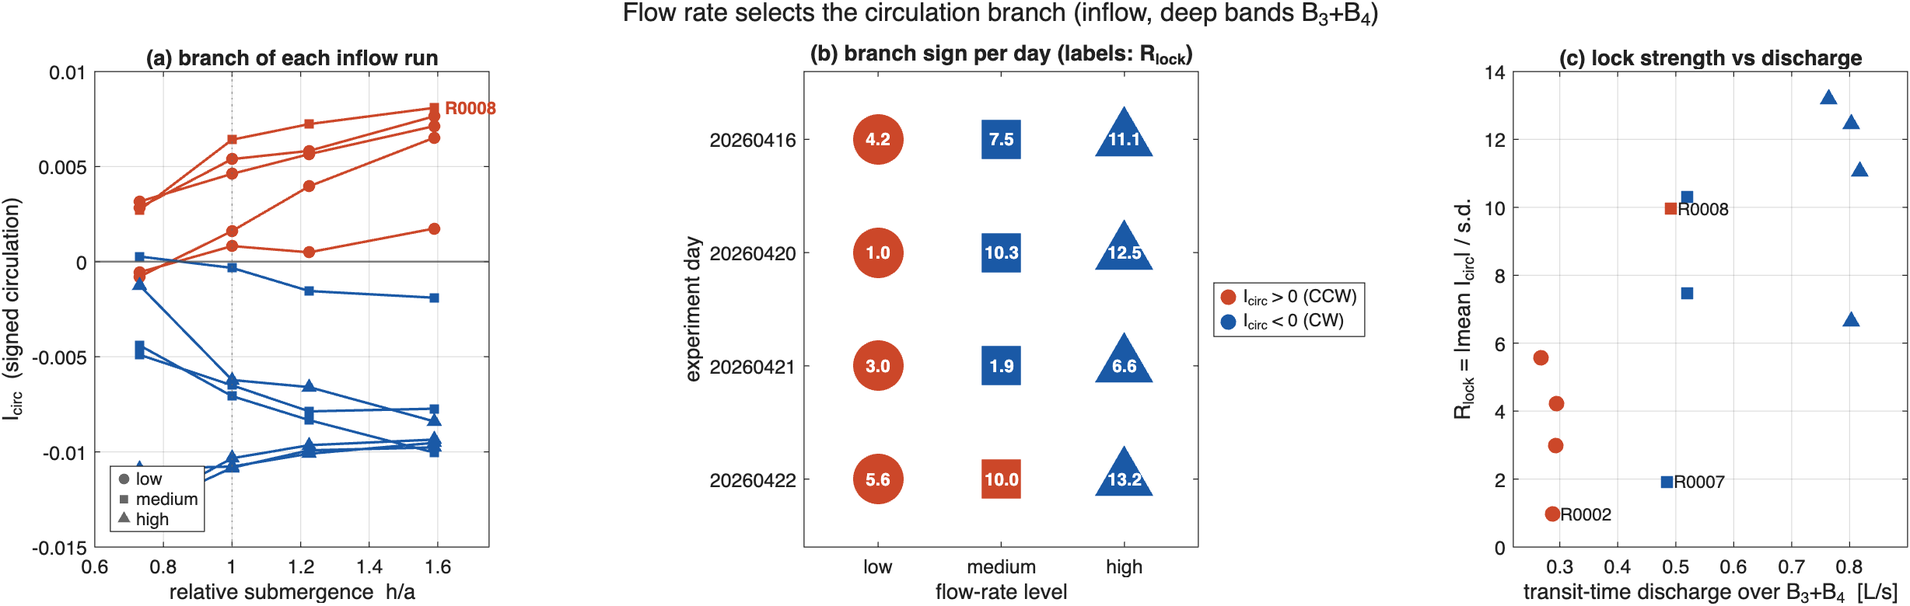
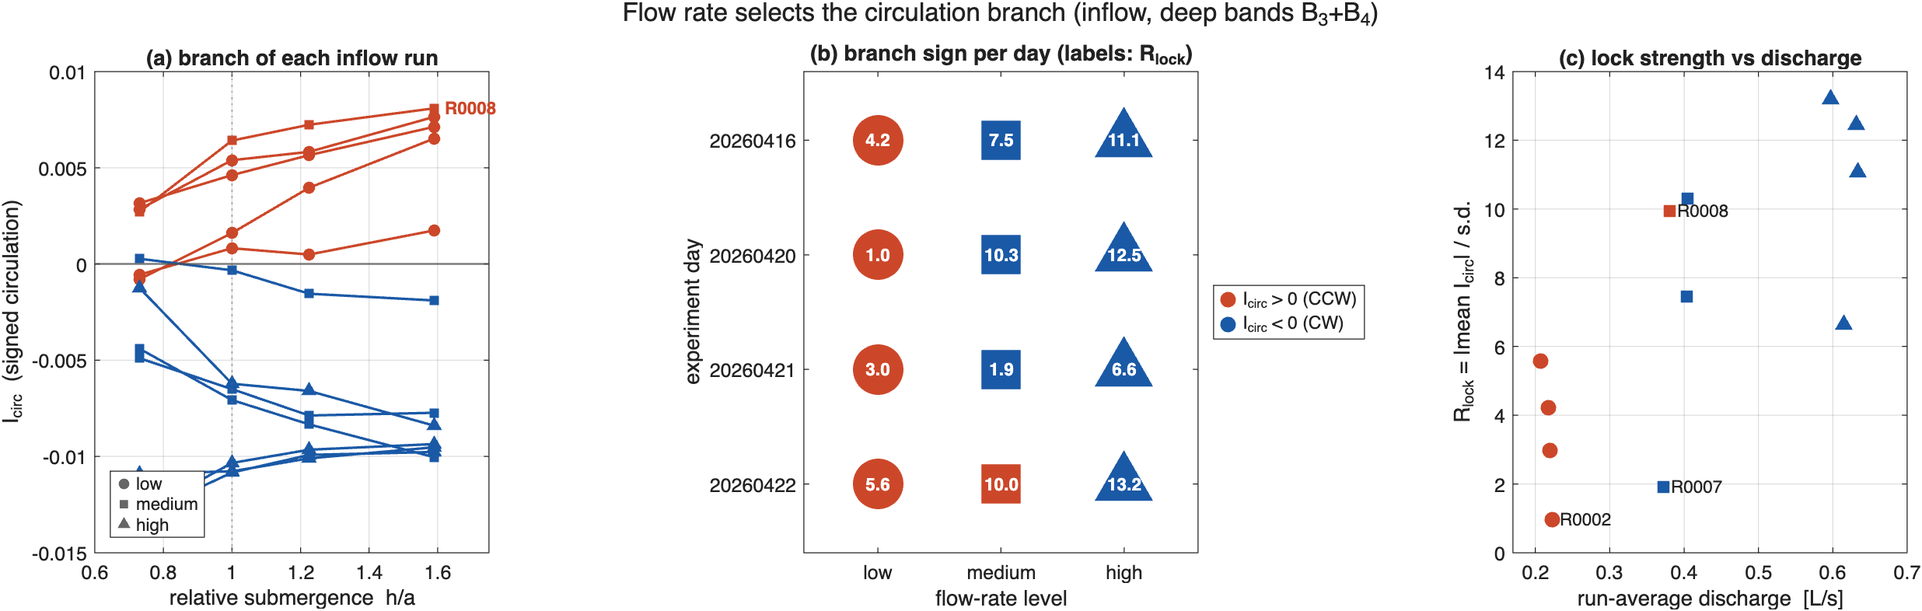
Paper 1: discharge is steady per run, and record the h/a = 1 confound
The "流量・流出量の安定化" session verified the discharge three independent
ways (doc/qdip_jet_check.md §0) and the verdict overturns what results.tex §3.1
said. Reproduced it here from the frame data before editing: the level-derived
Q dips to 0.29-0.32 of nominal at h = 44-49 mm in all three flow levels, at the
same depth even though the runs differ threefold in duration -- and that dip
sits inside band B1 (30-50 mm), which is exactly why the band average made B1
look low and produced the bogus "discharge rises with depth" trend.

So §3.1 now says the discharge is steady within each run and quotes the run
average (0.75-0.89 of nominal for inflow, 0.78-1.00 for outflow; reproduced
exactly in MATLAB). The old paragraph's own loose end -- that rising discharge
with depth does not follow from back-pressure for a pumped inflow -- was the
tell, and it is resolved: it was the radar level gauge, not the flow.

New Methods subsection carries the three grounds (jet surface speed does not
follow the dip, beta = -0.17..-0.05 against +0.8..+1.1 expected; lower
reservoir falls at a constant rate; the dip coincides with the water surface
settling under the gauge). Table footnote and limitation (2) follow.

compute_branch_statistics gains Q_run_mean_Lps, and the branch section and
figure panel (c) now quote it instead of the per-band transit time. The run
average does not depend on where the band edges fall, which matters because
[…]

diff --git a/paper/2026_journal_Shonai/sections/results.tex b/paper/2026_journal_Shonai/sections/results.tex
@@ -20,10 +20,18 @@
 
 計画した 24 run(mode 2 水準 $\times$ 流量 3 水準 $\times$ 反復 4)は全て取得し, 全 run を共通のパイプライン(幾何補正, 表面 PIV, 正準形式への変換, 指標計算)で処理した. 全 run で水位計測と PIV 動画は同一時間区間をカバーしており, 水位時系列を正規化時間で PIV フレームに内挿することで, 各フレームに水深 $h$, 相対水深 $h/a$, および水深帯 $B_1$--$B_4$ を割り当てた. 全フレームがいずれかの水深帯に割り当てられ, 帯外のフレームは生じなかった.
 
-実流量は, 水位時系列から体積保存 $Q = A_{\mathrm{plan}} \left| \mathrm{d}h/\mathrm{d}t \right|$ により評価した. 帯平均した実流量は名目流量 $Q_1$--$Q_3$ と同程度の大きさを示したが, run 内では水深依存の系統的変動があり, 浅い帯(port が部分的に自由表面と繋がる条件)では名目値より小さく, 深い帯では大きい傾向が見られた. たとえば inflow high では帯平均実流量が $B_1$ の \SI{0.49}{L/s} から $B_4$ の \SI{0.83}{L/s} まで単調に増加した(名目 \SI{0.75}{L/s}). この傾向は inflow/outflow で共通である. inflow は run 内で水深を浅→深に, outflow は深→浅に掃くため, 両者で同じ向きの水深依存が現れることは, この変動が経過時間(たとえば起動直後の過渡)ではなく水深そのものに従うことを意味する. 以降のレジーム比較は水深帯ごとに行うため, この run 内変動が帯間比較を汚染することはない.
+実流量は各 run 内でほぼ一定であった(Sec.~\ref{sec:methods_discharge}). 以降で流量を引用する際は, 記録区間全体の平均 $Q = A_{\mathrm{plan}} \Delta h / T$ を用いる. 名目流量に対する比は inflow で 0.75--0.89, outflow で 0.78--1.00 であり, 名目値をやや下回るものの, 流量水準間の比は保たれている.
+
+なお, 水位時系列から瞬時的に評価した $A_{\mathrm{plan}} \left| \mathrm{d}h/\mathrm{d}t \right|$ には, inflow の全 12 run で $h \approx \SIrange{44}{50}{mm}$ に名目の約 0.3 倍まで落ちる谷が現れる. この谷は所要時間が 3 倍異なる 3 流量水準すべてで同じ水深に現れるが, 実流量の変化ではなく水位計の読みに起因するものと判定した(根拠は Sec.~\ref{sec:methods_discharge}). したがって本研究では, 水位から得た水深依存の流量は用いない.
 
 計測分解能について, Methods に述べた noise floor 評価($E_{\mathrm{noise}} \approx \SI{2e-7}{m^2/s^2}$, 粒子像変位 $\approx$ 0.06 pixel/pair)に基づき, 各 run $\times$ 帯の $\mathrm{SNR} = \overline{E}/E_{\mathrm{noise}}$ を算出した. inflow は全帯で $\mathrm{SNR} > 400$ であり十分に解像されている. 一方 outflow は, low/medium の全帯が $\mathrm{SNR} < 4.5$(大半は 1 以下)と noise floor 近傍にあり, 分解能限界と判定された. outflow で明確に解像されたのは high の $B_1$($\mathrm{SNR} \approx 37$)のみであり, high の $B_4$($\mathrm{SNR} \approx 6$)がこれに次ぐ. したがって, outflow のスカラー指標は原則として定性的参考値であり, 定量的な議論は解像された帯と, ランダム誤差が平均化により $1/\sqrt{N}$ に抑制される時間平均ベクトル場に基づいて行う.
 
+% NOTE (2026-10-26, 深さの軸が未決): 流量が各 run で一定と判明したことの裏返しとして,
+% 上池水位計の深さは h/a ~ 1 付近で inflow -9〜-11 mm, outflow -4〜-6 mm ずれている
+% 可能性がある (doc/qdip_jet_check.md §0). 記録時間の 31-39% (inflow) で帯が入れ替わり
+% うるため, B1/B2/B3 の帯別の値と「h/a ~ 1 で遷移する」位置は暫定扱い.
+% 決着の手順: (1) 時間比例の深さ軸で帯平均を再計算して影響を見る, (2) 静的較正を 1 回.
+% 枝選択 (B3+B4 で集計, run 平均流量で引用) は影響が小さい見込み.
 \subsection{Inflow flow regimes}
 \label{sec:results_inflow}
 % 主役: 平均場トポロジー, phi_lv, I_asym, I_rot. I_unst の h/a 遷移が最重要.
@@ -79,7 +87,7 @@ $B_3+B_4$.}
 
 第二に, この符号の分かれ方は装置セットアップや日差では説明できない. inflow は 4 日間 $\times$ 3 水準の block 計画で実施しており(Sec.~\ref{sec:methods_facility}), Fig.~\ref{fig:branch_selection}b のとおり\textbf{同一日の中で} low と high の符号が必ず逆になる. 4 日間すべてでこの符号の対が再現するため, 分枝の選択は日ごとの初期条件や設営誤差ではなく, 流量に帰属する.
 
-第三に, medium は二つの分枝が拮抗する遷移域であった. 逆符号を示した R0008 の流量は, 同水準の他 run と実質的に同じである. 水位ロガーの量子化に律速されない遷移時間法($Q=\Delta V_{B_k}/T_{B_k}$)で評価すると, 深水帯における実測流量は R0008 が \SI{0.492}{L/s}, 同符号側の R0007 が \SI{0.485}{L/s} で差は \SI{1.4}{\percent}(帯別では $B_3$ で \SI{3.2}{\percent}, $B_4$ で \SI{0.2}{\percent})にすぎず, medium 4 run 全体の散らばり(\SIrange{0.485}{0.519}{L/s})の中に収まる. したがって R0008 の逆符号は流量条件のずれでは説明できず, 同一条件下で二つの分枝がともに実現しうること(双安定性)を示す.
+第三に, medium は二つの分枝が拮抗する遷移域であった. 逆符号を示した R0008 の流量は, 同水準の他 run と実質的に同じである. run 平均の実測流量(Sec.~\ref{sec:methods_discharge})でみると, R0008 は \SI{0.381}{L/s}, 逆符号側の R0007 は \SI{0.373}{L/s} で, 差は \SI{2.2}{\percent} にすぎない. これは medium 4 run 全体の散らばり(\SIrange{0.373}{0.405}{L/s})の中に収まる. したがって R0008 の逆符号は流量条件のずれでは説明できず, 同一条件下で二つの分枝がともに実現しうること(双安定性)を示す.
 
 第四に, 分枝の固定の強さは流量とともに増大した(Fig.~\ref{fig:branch_selection}c). ロック強度 $R_{\mathrm{lock}}$ は low で 1.0--5.6, medium で 1.9--10.3, high で 6.6--13.2 であり, 水準の中央値は 3.6, 8.7, 11.8 と単調に増加する. 符号保持率でみても, 12 run 中 10 run では深水帯の全フレームが run 平均と同符号であり(保持率 1.000), 例外は最も弱い R0002(0.826)と, medium の遷移域にある R0007(0.970)のみであった. すなわち高流量ほど分枝は決定論的に選ばれ, かつ選ばれた後の保持も強い.
 

diff --git a/paper/2026_journal_Shonai/sections/discussion.tex b/paper/2026_journal_Shonai/sections/discussion.tex
@@ -24,6 +24,8 @@
 \paragraph{$h/a \approx 1$ 転換帯の性格.}
 $h/a$ によるレジーム遷移は, 当初の仮説(流況トポロジーの切り替え)とは異なる形で現れた. トポロジーは各 mode で全水深帯を通じて保存され, 切り替わったのは (i) inflow の非定常性($I_{\mathrm{unst}}$ が $h/a \approx 1$ で約 1 桁減少), (ii) ジェットの表面影響度($\phi_{\mathrm{lv}}$, $E$, $I_{\mathrm{rot}}$ の系統変化)である. 物理的には, $h < a$ では port 開口の一部が自由表面と直接連結しており, ジェットは表面に「露出」した状態で射出される. このときジェットの変動(蛇行・振動)は直接表面に現れ, $I_{\mathrm{unst}}$ を押し上げる. 潜没が完了する $h > a$ では, ジェットは水面下に沈み込み, 表面には減衰・平滑化された運動のみが伝わるため, 表面流は定常化し, 静穏域($\phi_{\mathrm{lv}}$)が拡大する. この解釈は, 浅水ジェットの蛇行不安定が水深(摩擦数)に強く支配されるという知見 \cite{peltierExperimentalInvestigationMeandering2014}, および噴流の鉛直位置が流況を規定するという報告 \cite{chagdaliFlowPatternsShallow2025} と整合する.
 
+ただし帰属には本装置固有の限界がある. 給水路の断面高さが port 高さと一致しているため, $h=a$ では port の潜没完了と給水路の満管遷移とが同時に起こる(Sec.~\ref{sec:methods_facility}). 上の解釈は前者に基づくものであるが, 後者が給水条件の変化を通じて寄与している可能性を本装置では排除できない. 両者を分離するには, 給水路高さを port 高さと変えた装置での追試が要る.
+
 \paragraph{outflow の非定常性.}
 解像された唯一の outflow 帯(high, $B_1$)で $I_{\mathrm{unst}} = 0.76$ と, inflow 最大値の約 2 倍の相対変動が得られた. 「時間平均が小さく相対変動が大きい」という outflow の性格は, 取放水構造物近傍の点計測で瞬時流速が時間平均の 3 倍超に達すると報告した Zhu ら \cite{zhuExperimentalInvestigationUnsteady2023} と整合し, これを basin スケールの表面場に拡張した位置づけになる. ただし本研究の枠組みでは, outflow の非定常性の大部分が分解能限界の帯に隠れており, その定量化は今後の課題である(Sec.~\ref{sec:discussion_limitations}). 変動の「大きさ」($I_{\mathrm{unst}}$)に加えて, 流向反転の「頻度」を測る逆流係数型の指標 \cite{guoCharacteristicsFlowStructure2024} や, POD による coherent 構造の抽出 \cite{peltierExperimentalInvestigationMeandering2014,valeroUnsteadyShallowMeandering2022} が有望な拡張である.
 
@@ -42,4 +44,4 @@ Introduction で言及した予備観察(outflow での basin 全域の単一循
 \subsection{Limitations}
 \label{sec:discussion_limitations}
 
-本研究の限界を明示する. (1) 表面 PIV の分解能: outflow の low/medium はほぼ全帯で noise floor($E_{\mathrm{noise}} \approx \SI{2e-7}{m^2/s^2}$)近傍にあり, スカラー指標は定性的参考にとどまる. outflow の非定常性の定量化には, より長い画像対間隔, 高解像度撮影, または長時間平均を前提とした計測設計が必要である. (2) $U_p$ の定義: 正規化と閾値には名目流量に基づく $U_p$ を用いた. 帯平均の実流量は水深に依存して名目値の 0.61--1.42 倍まで変動するため, 厳密には帯ごとの実流量に基づく $U_p(h)$ を用いる余地がある(指標の序列・結論は変わらない). なお実流量の水深依存そのものについては, 給水・排水系の水理特性を本研究では計測していないため, 機構の同定には至っていない. (3) 分枝を選ぶバイアスの同定: 流量が分枝を選ぶこと自体は示したが, 向きを決めている非対称の実体(給水系, port 近傍の施工誤差など)は特定できていない(Sec.~\ref{sec:discussion_physical}). (4) 表面計測のみ: 鉛直構造(とくに outflow の吸込み流の鉛直分布と, inflow ジェットの沈み込み深さ)は計測していない. (5) 単一幾何: basin 形状, port 位置・寸法は 1 通りであり, 形状パラメータ依存性 \cite{dufresneClassificationFlowPatterns2010,ferraraFlowFieldShallow2018} は本研究の範囲外である. (6) Reynolds 数: 実機より 2--3 桁小さく, 乱流状態の直接外挿はできない(prototype-informed の立場, Methods 参照). (7) 履歴効果: 全 run 静水開始であり, 実運用の交互運転で支配的になりうる履歴あり条件は扱っていない.
+本研究の限界を明示する. (1) 表面 PIV の分解能: outflow の low/medium はほぼ全帯で noise floor($E_{\mathrm{noise}} \approx \SI{2e-7}{m^2/s^2}$)近傍にあり, スカラー指標は定性的参考にとどまる. outflow の非定常性の定量化には, より長い画像対間隔, 高解像度撮影, または長時間平均を前提とした計測設計が必要である. (2) $U_p$ の定義: 正規化と閾値には名目流量に基づく $U_p$ を用いた. 実測の run 平均流量は名目値の 0.75--1.00 倍であり, この比は run 間でおおむね共通であるため, 指標の序列・結論は変わらない. (3) $h/a \approx 1$ の交絡: 給水路高さが port 高さと等しいため, port の潜没完了と給水路の満管遷移が同一水位で起こり, 本装置では分離できない(Sec.~\ref{sec:methods_facility}). (4) 分枝を選ぶバイアスの同定: 流量が分枝を選ぶこと自体は示したが, 向きを決めている非対称の実体(給水系, port 近傍の施工誤差など)は特定できていない(Sec.~\ref{sec:discussion_physical}). (5) 表面計測のみ: 鉛直構造(とくに outflow の吸込み流の鉛直分布と, inflow ジェットの沈み込み深さ)は計測していない. (6) 単一幾何: basin 形状, port 位置・寸法は 1 通りであり, 形状パラメータ依存性 \cite{dufresneClassificationFlowPatterns2010,ferraraFlowFieldShallow2018} は本研究の範囲外である. (7) Reynolds 数: 実機より 2--3 桁小さく, 乱流状態の直接外挿はできない(prototype-informed の立場, Methods 参照). (8) 履歴効果: 全 run 静水開始であり, 実運用の交互運転で支配的になりうる履歴あり条件は扱っていない.

diff --git a/paper/2026_journal_Shonai/sections/methods.tex b/paper/2026_journal_Shonai/sections/methods.tex
@@ -12,11 +12,31 @@ inflow の 12 run は, 反復を実施日で block 化して配置した. すな
 
 各 run では, basin 内の水深変化を連続的に追跡した. inflow では水深 \SI{0.03}{m} に達した時点で撮影を開始し, \SI{0.10}{m} に達した時点で撮影を停止した. outflow では \SI{0.10}{m} から撮影を開始し, \SI{0.03}{m} に達した時点で停止した. したがって, 水深は独立の run 因子ではなく, 各 run 内で連続的に掃かれる解析軸として扱った. 本研究では, とくに port 高さ $a=\SI{0.055}{m}$ に対する相対水深 $h/a$ に着目し, basin-scale の表面流レジームを整理した.
 
+ここで, 本装置に固有の交絡を明示しておく. 給水路は開水路であり, その断面高さは port 高さと同じ \SI{0.055}{m} である. したがって水位が $h=a$ に達する瞬間に, port の潜没完了と給水路の満管遷移とが同時に起こる. 両者は本装置では分離できないため, $h/a \approx 1$ 前後に現れる指標変化を, どちらの機構に帰属するかは判定できない. 以降で $h/a \approx 1$ を転換帯として論じる際は, この限界を前提とする.
+
 実験条件の整理は, run-level conditions と analysis-level conditions を分けて行った. 前者は mode, flow-rate level, repetition により定義し, 後者は代表水深帯ごとの可視化および比較のために定義した. 可視化用の代表水深帯は Table~\ref{tab:depth_bands} に示す. 本研究では, $h/a \approx 1$ 近傍の遷移をより明瞭に捉えるため, \SIrange{0.05}{0.06}{m}（$0.91 \le h/a < 1.09$）を独立した帯 B2 として扱った.
 
 各 run の流量水準は, 水位変化率 \SIlist{2.5;5.0;7.5}{mm/min} に対応する名目流量
 $Q_1=\SI{0.25}{L/s}$, $Q_2=\SI{0.50}{L/s}$, $Q_3=\SI{0.75}{L/s}$ として設定した.
 ただし, 実際の流量は水深および開口の没水状態に応じて名目値からずれるため, 各 run の実流量は水位計で記録した水深時系列と水槽平面積に基づく体積収支から評価し, 解析に用いた.
+
+\subsection{Discharge and its verification}
+\label{sec:methods_discharge}
+
+各 run の流量は, 記録区間全体の平均 $Q = A_{\mathrm{plan}} \Delta h / T$ として評価した. ここで $\Delta h$ は記録区間の水深変化, $T$ は所要時間である.
+
+水位時系列から瞬時的に求めた $A_{\mathrm{plan}} \left| \mathrm{d}h/\mathrm{d}t \right|$ は, inflow の全 run で $h \approx \SIrange{44}{50}{mm}$ に名目の約 0.3 倍まで落ちる谷を示す. これが実流量の変化であれば, $h/a \approx 1$ 近傍の指標変化に流量という第三の交絡が加わることになるため, 水位を経由しない独立な検証を行い, 見かけ上のものと判定した. 根拠は互いに独立な 3 点である.
+\begin{enumerate}
+  \item \textbf{port 噴流の表面流速}. $x = \SIrange{0.19}{0.52}{m}$ の区間で噴流中心の表面流速を取り, これを $\log$--$\log$ 回帰で水位由来の流量に対して回帰すると, 傾きは $-0.17$ から $-0.05$(95\% 上限 $\le +0.03$)であった. 谷が実流量であれば $+0.8$ から $+1.1$ が期待されるから, 噴流は谷に追従していない. 同じ指標は流量水準の違いに対しては期待どおりの感度($n \approx 0.8$--$1.1$)を示すので, 流量の変化自体は検出できる.
+  \item \textbf{下池の水位}. 上池の読みが谷を示す区間においても, 下池の水位は一定の割合で変化した. 給水側から見た流量は一定である.
+  \item \textbf{水位計の挙動}. 谷の位置は, 水位計から見た水面の乱れが収まる水深と全 12 run で一致する. 谷の通過後に水位由来の流量が回復しても水面は静まったままであり, 水面が静まることは流量低下の結果ではない.
+\end{enumerate}
+さらに, 流量水準どうしの流量比はどの水深でも保たれている(high/low で 2.8--3.4, medium/low で 1.8--2.3). 以上より, 流量は各 run 内で一定として扱い, 水位から得た水深依存の流量は解析に用いない.
+
+水位計は 60\,GHz レーダー式(KEYENCE FR-S01)で, inlet に対向する壁際に設置し, 水面までの距離は \SIrange{0.40}{0.47}{m} であった.
+
+\subsection{Initial condition and residual-motion check}
+\label{sec:methods_initial}
 
 各 run は静水状態から開始した. 実験間には十分な待機時間を設け, 長時間撮影画像から表面流の残留が十分小さいことを確認した後に次の run を開始した. この判定には, 後述する面平均指標 $E(t)$ を用い, 停止後に $E(t)$ が停止直前値の \SI{5}{\percent} 未満となり, その状態が \SI{5}{min} 以上継続することを基準とした.
 
@@ -41,12 +61,11 @@ Outflow & High   & \SI{0.75}{L/s} & 4 & \SIrange{0.10}{0.03}{m} \\
 \vspace{1mm}
 \parbox{0.96\linewidth}{\footnotesize
 $^\dagger$ Nominal discharge corresponding to target water-level change rates of
-\SIlist{2.5;5.0;7.5}{mm/min}. In both inflow and outflow, the actual discharge
-could deviate from the nominal value depending on water depth and the degree of
-port submergence. This deviation became more pronounced under shallow,
-partially free-surface conditions. Therefore, the actual discharge in each run
-was evaluated from the recorded water-level time series and referred to in the
-analysis.
+\SIlist{2.5;5.0;7.5}{mm/min}. The actual discharge was steady within each run
+and is quoted as the run average $A_{\mathrm{plan}}\Delta h/T$, which falls
+below the nominal value by a roughly constant factor (0.75--0.89 for inflow,
+0.78--1.00 for outflow). Depth-resolved discharges derived from the water-level
+record are not used; see Sec.~\ref{sec:methods_discharge}.
 }
 \end{table}
 

diff --git a/src/metrics/compute_branch_statistics.m b/src/metrics/compute_branch_statistics.m
@@ -34,6 +34,15 @@ function T = compute_branch_statistics(cfg, varargin)
 %   branch_sign       +1 / -1 (sign of I_circ_mean), NaN if undefined
 %   Q_transit_Lps     transit-time discharge over the same bands,
 %                     Q = dV_band / T_band
+%   Q_run_mean_Lps    run-average discharge over the whole record,
+%                     Q = A_plan * |dh| / T
+%
+% Q_run_mean_Lps is the figure the manuscript quotes. The discharge turned out
+% to be steady within each run, so a single run average is both the simplest
+% and the most robust estimate: unlike the per-band numbers it does not depend
+% on where the band edges fall, which matters while the depth axis itself is
+% under review (doc/qdip_jet_check.md). It ignores the guide-channel plan area
+% below h = a, worth about 1%.
 %
 % Note on Q_transit_Lps: with the default deep bands the swept volume is
 % simply A_plan * dh, because both bands lie above the guide-channel ceiling
@@ -77,6 +86,7 @@ function T = compute_branch_statistics(cfg, varargin)
     date = strings(0,1); repetition = []; n_frames = [];
     I_circ_mean = []; I_circ_std = []; R_lock = [];
     sign_persistence = []; branch_sign = []; Q_transit_Lps = [];
+    Q_run_mean_Lps = [];
 
     for k = 1:height(R)
         rid = string(R.run_id(k));
@@ -87,6 +97,12 @@ function T = compute_branch_statistics(cfg, varargin)
                 'Skipping %s: frame_metrics lacks I_circ / band_id / time_s.', rid);
             continue;
         end
+
+        % Run average over the whole record, before restricting to bands.
+        okAll = isfinite(FM.depth_m) & isfinite(FM.time_s);
+        dAll = FM.depth_m(okAll); tAll = FM.time_s(okAll);
+        T_run = max(tAll) - min(tAll);
+        Q_run = 1000 * C.basin.Aplan_m2 * abs(dAll(end) - dAll(1)) / max(T_run, eps);
 
         inBand = ismember(string(FM.band_id), bandIds);
         ic = FM.I_circ(inBand);
@@ -115,11 +131,12 @@ function T = compute_branch_statistics(cfg, varargin)
         sign_persistence(end+1,1) = mean(sign(ic) == sg);             %#ok<AGROW>
         branch_sign(end+1,1) = sg;                                    %#ok<AGROW>
         Q_transit_Lps(end+1,1) = 1000 * dV_m3 / max(T_s, eps);        %#ok<AGROW>
+        Q_run_mean_Lps(end+1,1) = Q_run;                              %#ok<AGROW>
     end
 
     T = table(run_id, mode, flow_level, date, repetition, n_frames, ...
         I_circ_mean, I_circ_std, R_lock, sign_persistence, branch_sign, ...
-        Q_transit_Lps);
+        Q_transit_Lps, Q_run_mean_Lps);
 end
 
 function FM = iReadFrameMetrics(cfg, runID)

diff --git a/scripts/s40_make_paper_figures.m b/scripts/s40_make_paper_figures.m
@@ -232,20 +232,20 @@ box(axB, 'on');
 axC = nexttile(tl2); hold(axC, 'on');
 for k = 1:height(BS)
     cc = iBranchColor(BS.branch_sign(k));
-    plot(axC, BS.Q_transit_Lps(k), BS.R_lock(k), levelMarker(char(BS.flow_level(k))), ...
+    plot(axC, BS.Q_run_mean_Lps(k), BS.R_lock(k), levelMarker(char(BS.flow_level(k))), ...
         'MarkerSize', 8, 'MarkerFaceColor', cc, 'MarkerEdgeColor', 'none', ...
         'HandleVisibility', 'off');
 end
 for lbl = ["R0007" "R0008" "R0002"]
     r = BS(BS.run_id == lbl, :);
     if isempty(r); continue; end
-    text(axC, r.Q_transit_Lps + 0.012, r.R_lock, char(lbl), 'FontSize', 9);
+    text(axC, r.Q_run_mean_Lps + 0.010, r.R_lock, char(lbl), 'FontSize', 9);
 end
-xlabel(axC, 'transit-time discharge over B_3+B_4  [L/s]');
+xlabel(axC, 'run-average discharge  [L/s]');
 ylabel(axC, 'R_{lock} = |mean I_{circ}| / s.d.');
 title(axC, '(c) lock strength vs discharge');
 grid(axC, 'on'); box(axC, 'on');
-xlim(axC, [0.22 0.90]);
+xlim(axC, [0.17 0.70]);
 
 title(tl2, 'Flow rate selects the circulation branch (inflow, deep bands B_3+B_4)');
 

diff --git a/doc/piv_conditions.md b/doc/piv_conditions.md
@@ -117,7 +117,11 @@ CFD メッシュ自体は作り直さない: アスペクト比が真 1.5046 vs 
   張り付く = 1 mm の水位分解能 / 20 s の平滑窓). 面積修正はこの性質を変えない.
   s33 が遷移時間法を使っているのはこのため (既知, s33 ヘッダに記載あり).
 
-### 2d. 「Q が水深とともに増える」のは平面積の問題ではない (2026-07-27 確定)
+### 2d. 「Q が水深とともに増える」件 — 平面積でも実流量でもなかった
+
+> **状態 (2026-10-26): この節の当初の結論は撤回済み.** 「実流量そのものの水深依存」ではなく
+> **上池水位計の見かけ**であり, 流量は各 run でほぼ一定である (`doc/qdip_jet_check.md` §0).
+> 平面積が主因ではないという下の定量は有効なので, 記録として残す.
 
 `paper/README.md` の投稿前項目 #2 は, 実測 Q がラン内で B1 → B4 と系統的に増えるのは
 「h < a では導水路ぶん平面積が大きく, 浅水帯の Q が過小評価されるため」が**主因**だと
@@ -133,10 +137,11 @@ CFD メッシュ自体は作り直さない: アスペクト比が真 1.5046 vs 
 浅→深に, outflow は深→浅に掃く**のに, どちらも「浅いと小さく深いと大きい」が出る.
 経過時間 (起動直後の過渡など) ではなく水深に従う変動である.
 
-結論: これは解析の artifact ではなく実流量そのものの水深依存である. ただし **inflow で
-深いほど Q が大きい**のは, 背圧が増える向きから素直には出てこない (outflow で深いほど
-大きいのは水頭で説明できる). 給水系の水理特性が未計測なので機構は同定できていない —
-原稿では機構に踏み込まず, 「水深に従う」ところまでで止めてある (results.tex §3.1).
+当時の結論: 「解析の artifact ではなく実流量そのものの水深依存である」. **これは誤りだった.**
+当時この結論に残した疑問 —— **inflow で深いほど Q が大きいのは背圧の向きから素直に出てこない**
+(outflow で深いほど大きいのは水頭で説明できる) —— が正しく, 水位計の見かけだったのが真相である.
+水深に従って変わるのは流量ではなく水位計の読みであり, 谷の位置が水面の乱れが収まる水深と
+一致する (下の追記と `doc/qdip_jet_check.md` §0).
 
 なお s31 の `compute_actual_discharge` が水深に依らず一定の平面積を使っている件自体は
 s33 と揃っていないので直す価値はあるが, **効果が 1% 級と判明したので優先度は低い**
